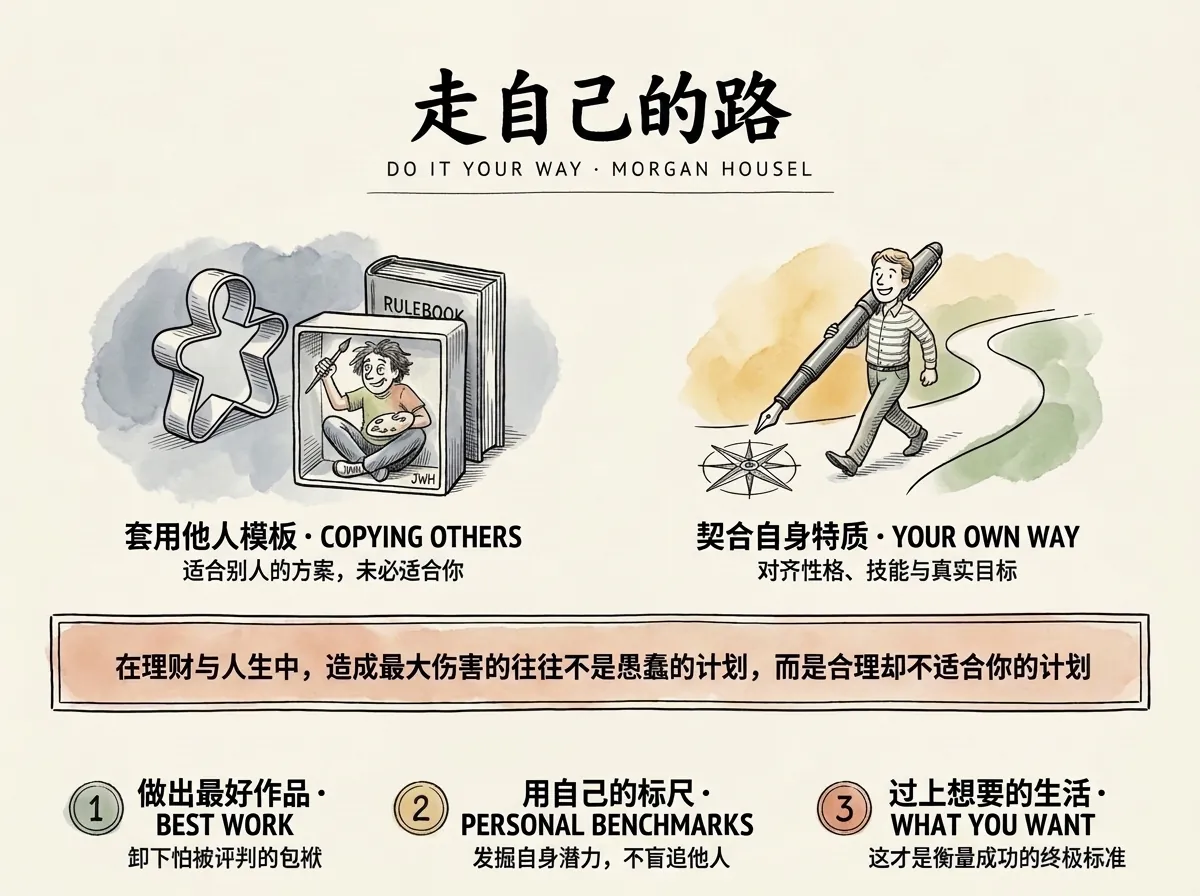
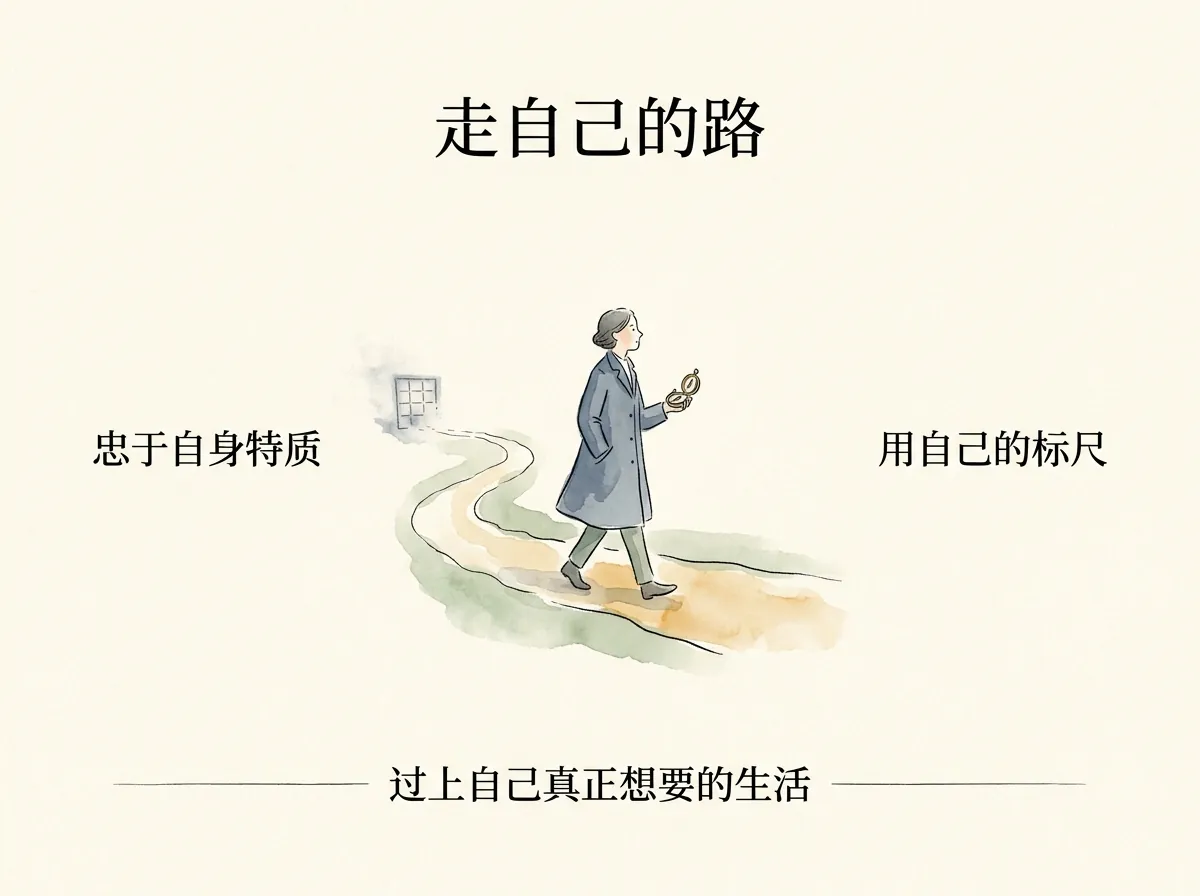
chore(translations): simplify Do It Your Way cover to pure Chinese and remove en.md link

diff --git a/translations/your-way-is-the-only-way/index.md b/translations/your-way-is-the-only-way/index.md
@@ -8,7 +8,7 @@ description: "《金钱心理学》作者摩根·豪泽尔（Morgan Housel）短
 
 # 走自己的路（Do It Your Way）
 
-> 原文：[Do It Your Way](https://collabfund.com/blog/your-way-is-the-only-way/) · 作者：Morgan Housel · 发布时间：2024 年 9 月 23 日 · [阅读英文原版](./en.md)
+> 原文：[Do It Your Way](https://collabfund.com/blog/your-way-is-the-only-way/) · 作者：Morgan Housel · 发布时间：2024 年 9 月 23 日
 
 ![走自己的路](/images/your-way-is-the-only-way/your-way-is-the-only-way.webp)
 
